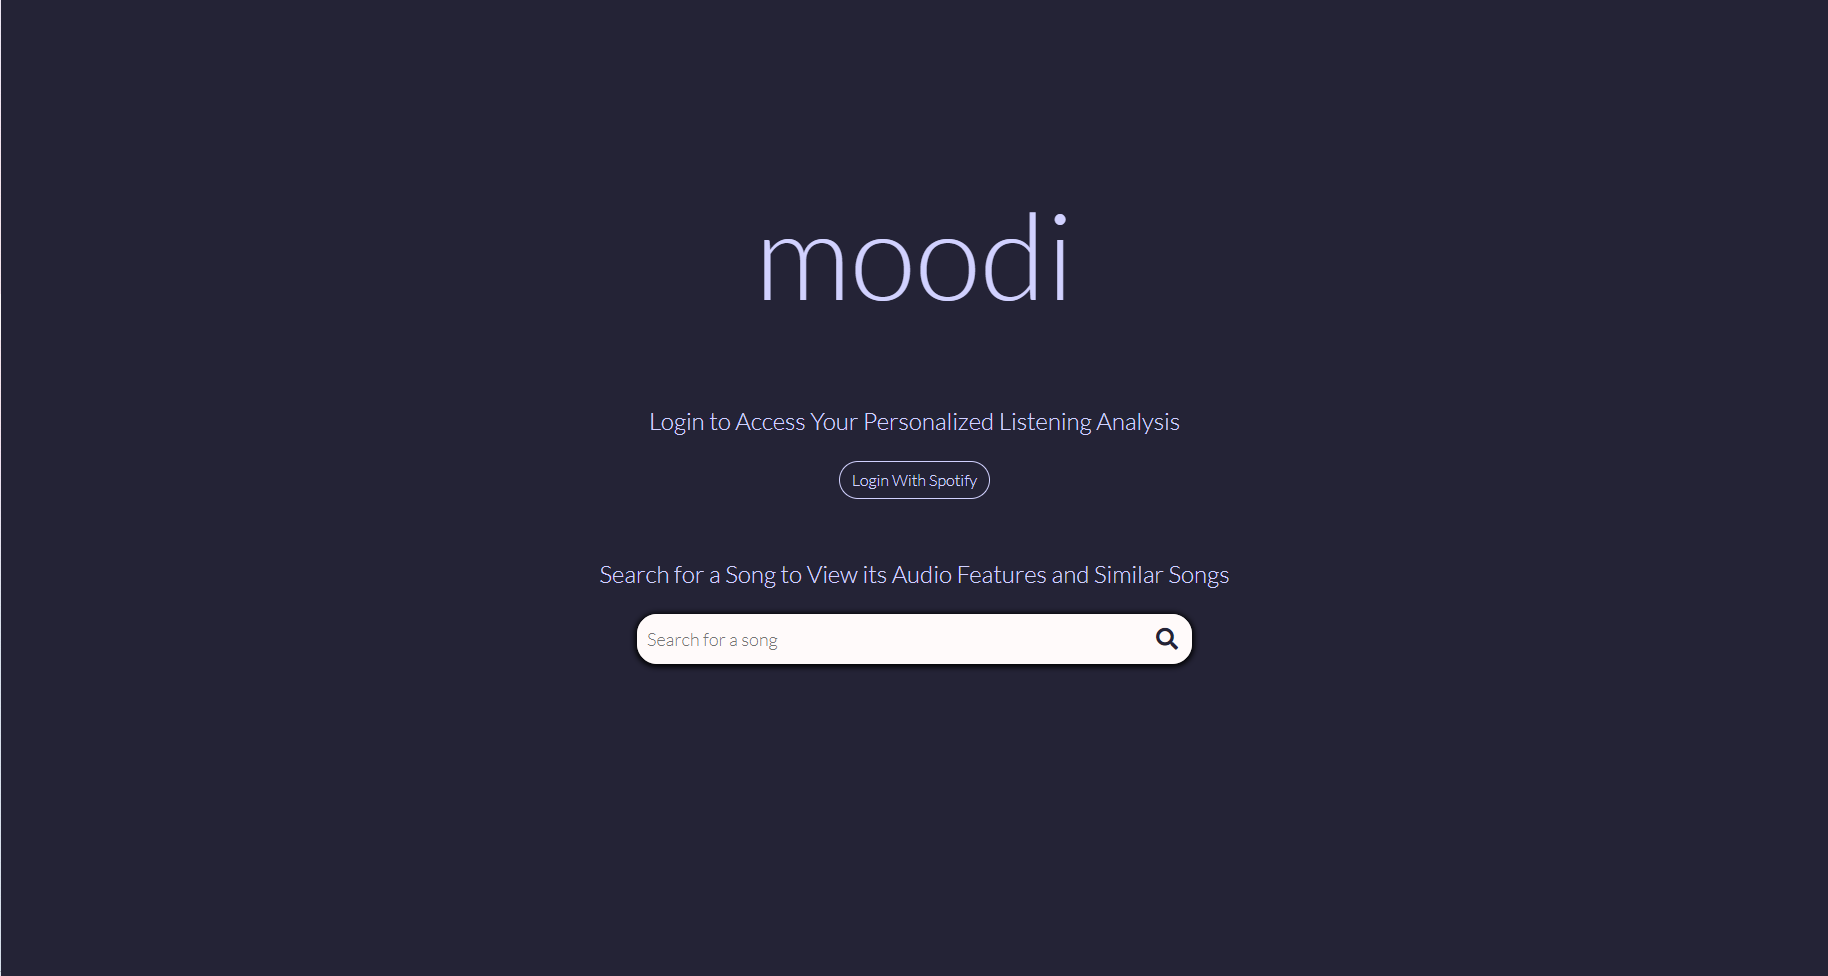
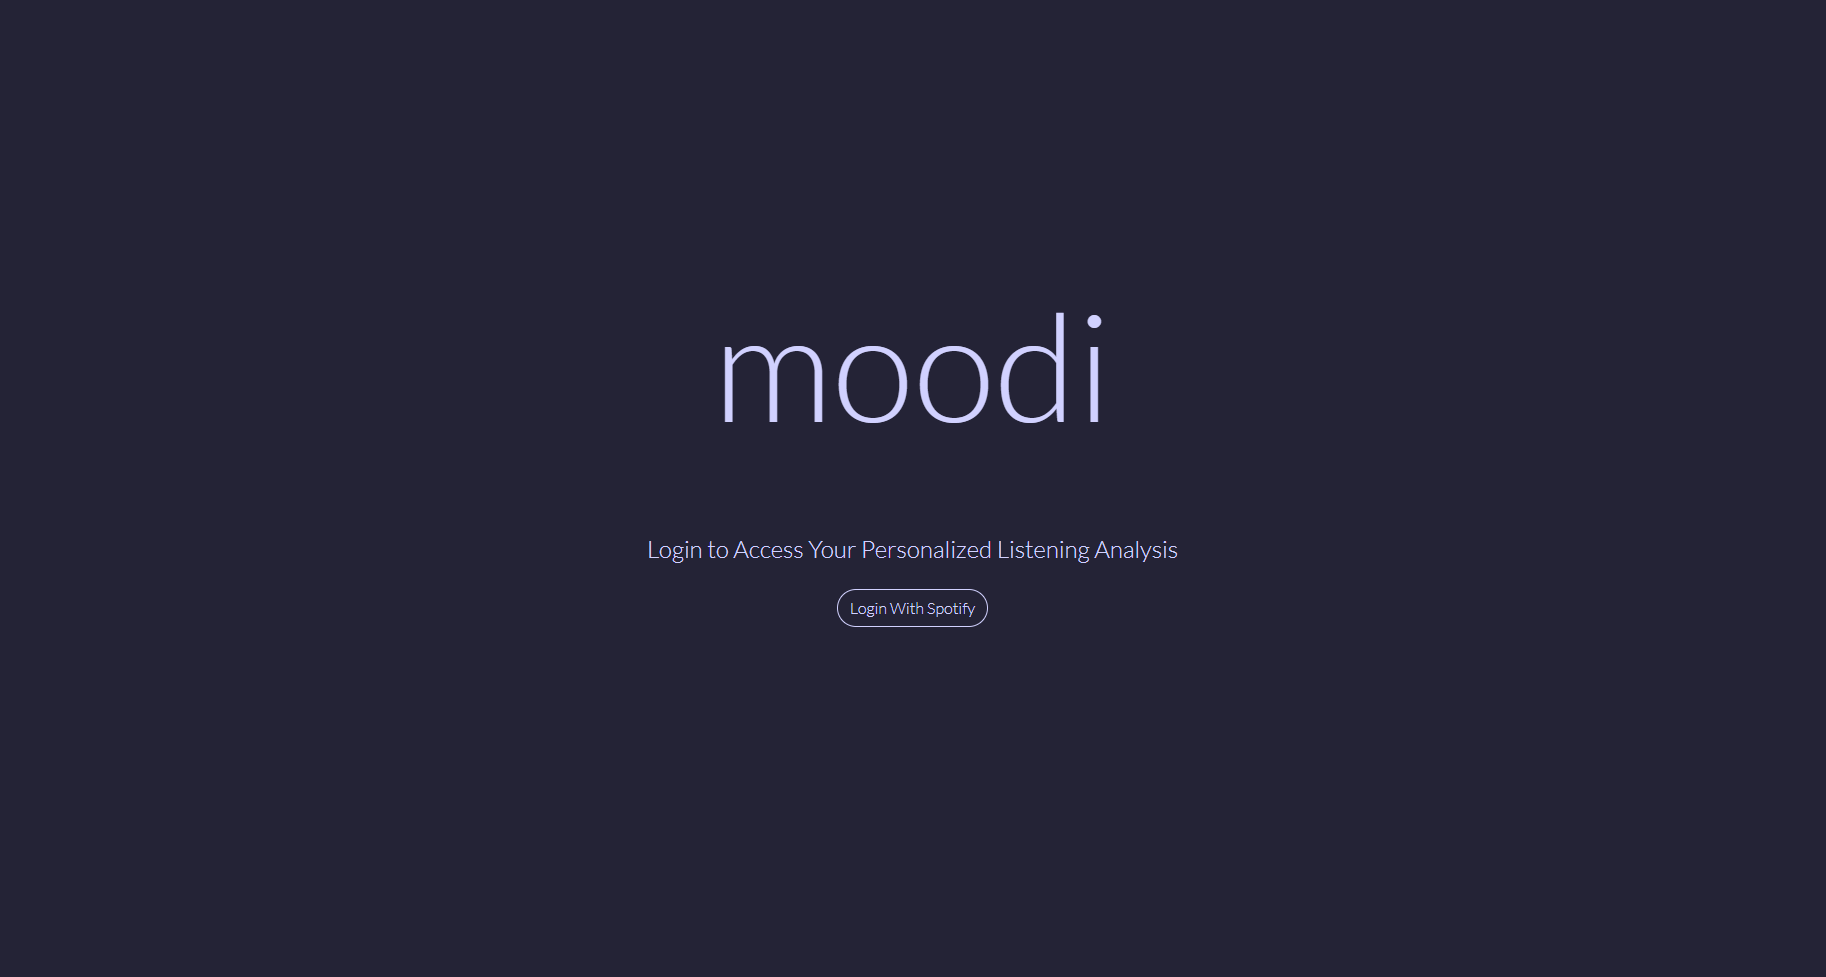
must be logged in to search

diff --git a/templates/top1.html b/templates/top1.html
@@ -1,8 +1,8 @@
 {% extends "base.html" %}
 
 {% block head%}
-<nav class="navbar navbar-custom", action="/">
-    <a class="navbar-brand" href="/">
+<nav class="navbar navbar-custom", action="/top-tracks/short-term">
+    <a class="navbar-brand" href="/top-tracks/short-term">
         moodi
     </a>
 </nav>
@@ -37,7 +37,17 @@
         </form>
     </div> 
 </div>
-
+<div class="container" id="search-container">
+    <h3>Search for a Song to View its Audio Features and Similar Songs</h3>
+    <div class="wrapper">
+        <form method = 'POST' action="/search/">
+            <input type="text" method = 'POST' action="/search/" name="search" id="search" placeholder="Search for a song" autocomplete="off">
+            <div class="search-btn">
+                <button><i method = 'POST' action="/search/" class="fa fa-search"></i></button>
+            </div>
+        </form>
+    </div>
+</div>
 <section class="" id="top_tracks">
     <div class="container h-100 pt-5">
         <div class="row mt-2">

diff --git a/templates/top2.html b/templates/top2.html
@@ -1,8 +1,8 @@
 {% extends "base.html" %}
 
 {% block head%}
-<nav class="navbar navbar-custom", action="/">
-    <a class="navbar-brand" href="/">
+<nav class="navbar navbar-custom", action="/top-tracks/short-term">
+    <a class="navbar-brand" href="/top-tracks/short-term">
         moodi
     </a>
 </nav>
@@ -37,7 +37,17 @@
         </form>
     </div> 
 </div>
-
+<div class="container" id="search-container">
+    <h3>Search for a Song to View its Audio Features and Similar Songs</h3>
+    <div class="wrapper">
+        <form method = 'POST' action="/search/">
+            <input type="text" method = 'POST' action="/search/" name="search" id="search" placeholder="Search for a song" autocomplete="off">
+            <div class="search-btn">
+                <button><i method = 'POST' action="/search/" class="fa fa-search"></i></button>
+            </div>
+        </form>
+    </div>
+</div>
 <section class="" id="top_tracks">
     <div class="container h-100 pt-5">
         <div class="row mt-2">

diff --git a/templates/top3.html b/templates/top3.html
@@ -1,8 +1,8 @@
 {% extends "base.html" %}
 
 {% block head%}
-<nav class="navbar navbar-custom", action="/">
-    <a class="navbar-brand" href="/">
+<nav class="navbar navbar-custom", action="/top-tracks/short-term">
+    <a class="navbar-brand" href="/top-tracks/short-term">
         moodi
     </a>
 </nav>
@@ -37,7 +37,17 @@
         </form>
     </div> 
 </div>
-
+<div class="container" id="search-container">
+    <h3>Search for a Song to View its Audio Features and Similar Songs</h3>
+    <div class="wrapper">
+        <form method = 'POST' action="/search/">
+            <input type="text" method = 'POST' action="/search/" name="search" id="search" placeholder="Search for a song" autocomplete="off">
+            <div class="search-btn">
+                <button><i method = 'POST' action="/search/" class="fa fa-search"></i></button>
+            </div>
+        </form>
+    </div>
+</div>
 <section class="" id="top_tracks">
     <div class="container h-100 pt-5">
         <div class="row mt-2">

diff --git a/templates/home.html b/templates/home.html
@@ -13,16 +13,6 @@
         </button>
     </form>
     <br>
-    <h3>Search for a Song to View its Audio Features and Similar Songs</h3>
-    <div class="container">
-        <div class="wrapper">
-            <form method = 'POST' action="/search/">
-                <input type="text" method = 'POST' action="/search/" name="search" id="search" placeholder="Search for a song" autocomplete="off">
-                <div class="search-btn">
-                    <button><i method = 'POST' action="/search/" class="fa fa-search"></i></button>
-                </div>
-            </form>
-        </div>
-    </div>
+    
 </div>
 {%endblock%}

diff --git a/static/css/style.css b/static/css/style.css
@@ -45,8 +45,8 @@ head, body, html {
 }
 
 h1{
-    font-size: 120px;
-    padding-top: 10%;
+    font-size: 150px;
+    padding-top: 15%;
 }
 
 h2{
@@ -92,6 +92,11 @@ h4{
 .container {
     margin: auto;
     width: 100%;
+}
+
+.container#search-container {
+    text-align: center;
+    padding-top: 2%;
 }
 
 .col {

diff --git a/templates/recs.html b/templates/recs.html
@@ -1,8 +1,8 @@
 {% extends "base.html" %}
 
 {% block head%}
-<nav class="navbar navbar-custom", action="/">
-    <a class="navbar-brand" href="/">
+<nav class="navbar navbar-custom", action="/top-tracks/short-term">
+    <a class="navbar-brand" href="/top-tracks/short-term">
         moodi
     </a>
 </nav>

diff --git a/templates/search.html b/templates/search.html
@@ -1,8 +1,8 @@
 {% extends "base.html" %}
 
 {% block head%}
-<nav class="navbar navbar-custom", action="/">
-    <a class="navbar-brand" href="/">
+<nav class="navbar navbar-custom", action="/top-tracks/short-term">
+    <a class="navbar-brand" href="/top-tracks/short-term">
         moodi
     </a>
 </nav>

diff --git a/app.py b/app.py
@@ -15,7 +15,6 @@ cid = os.getenv('cid')
 secret = os.getenv('secret')
 app.config['SESSION_COOKIE_NAME'] = 'spotify-login-session'
 
-
 def create_spotify_oauth():
     return SpotifyOAuth(
             client_id=cid,
